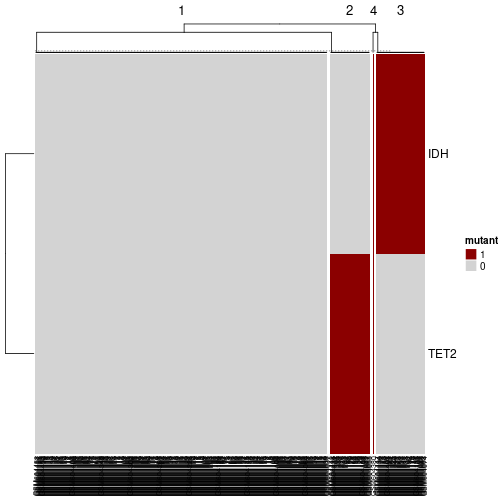
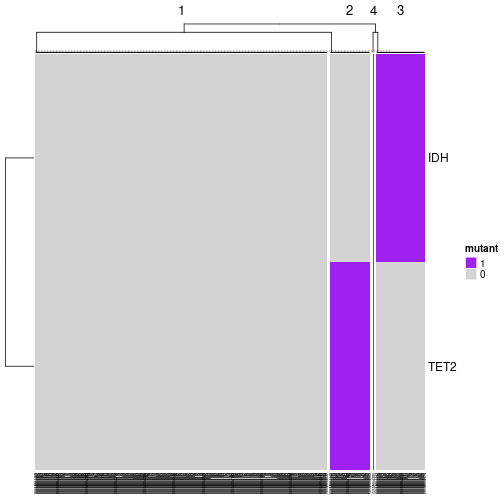
regenerate .md file

diff --git a/vignettes/TET2.md b/vignettes/TET2.md
@@ -1,6 +1,6 @@
 ---
 title: "Code review: TET2 and hypermethylation"
-author: "Tim Triche"
+author: "VAIGS Intro to Experimental Design, Class of 2026"
 date: "November 22nd, 2021"
 output: 
   html_document:
@@ -16,18 +16,17 @@ vignette: >
 # Installation
 
 Install the WorldsSimplestCodeReview package, if you haven't. 
+#This chunk was not necessary to run for me.-Riley
 
 
 ```r
 #install.packages("remotes")
 #install.packages("BiocManager")
 #BiocManager::install("VanAndelInstitute/WorldsSimplestCodeReview")
-library(knitr)
+library("WorldsSimplestCodeReview")
 ```
 
-To extract just the R code, you can use knitr::knit(input, tangle=TRUE):
-
-
+To extract just the R code, you can use `knitr::knit(input, tangle=TRUE)`.
 
 # Introduction
 
@@ -38,43 +37,80 @@ details can be found in [the paper](https://doi.org/10.1016/j.ccr.2010.11.015),
 which is indeed a landmark. Nevertheless, some fine details of the work seemed
 to disagree with the results of other cohorts when replication was attempted.
 
-![The money shot](figure/TET2.png)
+![The money shot](figure/TET2.png) 
+# This is Fig6 from the paper, suggesting TET2 mutant AML is associated with a hypermethylation p/type. Volcano plot (D) shows skew towards higher amount fo methylation in TET2 mutant compared to both TET2 and IDH WT. NB IDH and TET2 mutations mutually exclusive in AML.
 
 Some of you who have seen volcano plots before can guess where this is going.
 
 # The data
-
+Loading the data from the paper. This requred loading packages limma and GEOquery
 
 ```r
-
+#Load a package that can be used for Data analysis, linear models, and differential expression for microarray data. This is part of the BioConductor package.
 library(limma)
+#Load GEOquery package, that allows you to get data from the NCBI Gene Expression Omnibus
 library(GEOquery)
+#> Loading required package: Biobase
+#> Loading required package: BiocGenerics
+#> 
+#> Attaching package: 'BiocGenerics'
+#> The following object is masked from 'package:WorldsSimplestCodeReview':
+#> 
+#>     plotMA
+#> The following object is masked from 'package:limma':
+#> 
+#>     plotMA
+#> The following objects are masked from 'package:stats':
+#> 
+#>     IQR, mad, sd, var, xtabs
+#> The following objects are masked from 'package:dplyr':
+#> 
+#>     combine, intersect, setdiff, union
+#> The following objects are masked from 'package:base':
+#> 
+#>     Filter, Find, Map, Position, Reduce, anyDuplicated, append,
+#>     as.data.frame, basename, cbind, colnames, dirname, do.call,
+#>     duplicated, eval, evalq, get, grep, grepl, intersect, is.unsorted,
+#>     lapply, mapply, match, mget, order, paste, pmax, pmax.int, pmin,
+#>     pmin.int, rank, rbind, rownames, sapply, setdiff, sort, table,
+#>     tapply, union, unique, unsplit, which.max, which.min
+#> Welcome to Bioconductor
+#> 
+#>     Vignettes contain introductory material; view with
+#>     'browseVignettes()'. To cite Bioconductor, see
+#>     'citation("Biobase")', and for packages 'citation("pkgname")'.
+#> Setting options('download.file.method.GEOquery'='auto')
+#> Setting options('GEOquery.inmemory.gpl'=FALSE)
+#Load the paper's dataset specifically, if it isn't already; but just the parts you want
 if (!exists("DNAme")) data(DNAme)
 
 if (FALSE) { # this takes about 5 minutes:
-
+#This didn't actually take 5 minutes for me so I hope it hasn't missed anything! Updated none
   # needed to fetch data
   library(GEOquery) 
-  MSK_HOVON <- getGEO("GSE24505")
+  MSK_HOVON <- getGEO("GSE24505") #pulls GSE24505 dataset from GEOquery and labels it MSK_HOVON
 
   # skip the expression data:
-  platform <- sapply(MSK_HOVON, annotation)
-  methylation <- which(platform == "GPL6604")
-  DNAme <- MSK_HOVON[[methylation]] # GPL6604, HG17_HELP_PROMOTER 
-  DNAme$male <-ifelse(DNAme$characteristics_ch1=="sex (male.1_female.2): 1",1,0)
-  DNAme$TET2 <- ifelse(DNAme$characteristics_ch1.7 == "tet2: WT", 0, 1)
-  DNAme$IDH <- ifelse(DNAme$characteristics_ch1.8 == "idh1.idh2: WT", 0, 1)
-  DNAme$purity <- as.integer(DNAme$"bm_%blasts:ch1") / 100
-  save(DNAme, file="../data/DNAme.rda")
+  platform <- sapply(MSK_HOVON, annotation) #Using MSK_HOVON, pull datapoints with annotation into "platform"
+  methylation <- which(platform == "GPL6604") #Select those datapoints within "platform" for which values are "GPL6604"- methylation data
+  DNAme <- MSK_HOVON[[methylation]] # GPL6604, HG17_HELP_PROMOTER. Create new dataset "DNAme" with just methylation data
+  DNAme$male <-ifelse(DNAme$characteristics_ch1=="sex (male.1_female.2): 1",1,0) #Variable w/in DNAme for sex
+  DNAme$TET2 <- ifelse(DNAme$characteristics_ch1.7 == "tet2: WT", 0, 1) #Variable w/in DNAme for TET2 mutation/ WT
+  DNAme$IDH <- ifelse(DNAme$characteristics_ch1.8 == "idh1.idh2: WT", 0, 1) #Variable w/in DNAme for IDH mutation/WT
+  DNAme$purity <- as.integer(DNAme$"bm_%blasts:ch1") / 100 #Variable w/in DNAme for % purity 
+  save(DNAme, file="../data/DNAme.rda") #Save DNAme dataset in local files
 
 }
 
+
 # how many probes, how many patients?
-dim(DNAme)
+dim(DNAme) #dimensions of new DNAme dataset; features == probes, samples == patients
 #> Features  Samples 
 #>    25626      394
 # Features  Samples
 #    25626      394
+
+#SO, we have 25626 probes and 394 patients/samples
 ```
 
 ### Some contrasts
@@ -83,112 +119,117 @@ Is it the case that TET2, IDH1, and IDH2 mutations are exclusive?
 
 
 ```r
-
 # always plot your data
+
+#this is the type of plot we are using...
 library(ComplexHeatmap)
-#> Loading required package: grid
-#> ========================================
-#> ComplexHeatmap version 2.8.0
-#> Bioconductor page: http://bioconductor.org/packages/ComplexHeatmap/
-#> Github page: https://github.com/jokergoo/ComplexHeatmap
-#> Documentation: http://jokergoo.github.io/ComplexHeatmap-reference
-#> 
-#> If you use it in published research, please cite:
-#> Gu, Z. Complex heatmaps reveal patterns and correlations in multidimensional 
-#>   genomic data. Bioinformatics 2016.
-#> 
-#> The new InteractiveComplexHeatmap package can directly export static 
-#> complex heatmaps into an interactive Shiny app with zero effort. Have a try!
-#> 
-#> This message can be suppressed by:
-#>   suppressPackageStartupMessages(library(ComplexHeatmap))
-#> ========================================
-medata <- pData(DNAme)[, c("TET2", "IDH")]
-mutations <- t(as.matrix(medata))
-Heatmap(mutations,
-    col = c("lightgray", "darkred"), name = "mutant", column_km = 4,
-    column_names_gp = gpar(fontsize = 7)
-)
+
+#make a matrix of methylation data, coded as a binary
+mutations <- t(as.matrix(pData(DNAme)[, c("TET2", "IDH")]))
+#plot the heatmap, I decreased font size to 4 so that single double mutant name was visible
+  #I like the color purple better than red
+Heatmap(mutations, col=c("lightgray","purple"), name="mutant", column_km=4,row_km = 1,
+        column_names_gp = gpar(fontsize = 4))
 ```
 
-![](TET2_files/figure-html/heatmap-1.png)<!-- -->
+![plot of chunk heatmap](figure/heatmap-1.png)
 
 ```r
 
-# get any samples that have both genes mutated
-(non_exclusive  <- medata %>% dplyr::filter(TET2 == 1 & IDH == 1))
-#>           TET2 IDH
-#> GSM604380    1   1
-medata %>% table()
-#>     IDH
-#> TET2   0   1
-#>    0 302  50
-#>    1  41   1
+#Group 1 has no mutations, 2 has only IDH muations, 3 has only TET2 mutations, 4 has both TET2 and IDH mutations
 ```
-❗ _GSM604380 is not exclusive for the mutation._ One of the results from the
-paper is that the mutations are mutually exclusive. The data from this code
-does not match what is found in their results.
+Group 4 could have been easily missed if the data was not plotted!
+GSM604380 has both IDH and TET2 mutations.
 
 Do we see genome-wide hypermethylation from TET2 mutations? 
+  # No?!
 
 
 ```r
+#This code is looking at methylation probes based on three different designs
+  #Design 1 controls for no extra variables
+  #Design 2 controls for sex
+  #Design 3 controls for purity
 
 # model TET2 and IDH1/2 mutant related hypermethylation
 # note: there are plenty of confounders (pb%, bm%, wbc) that could be included
 library(limma) 
 
+
+
 # simplest design: model gene expression with IDH and TET2 mutation status and 
 # pull top ranked significant genes from liner model fit, get probes for each
 # gene
+
 design1 <- with(pData(DNAme), model.matrix( ~ IDH + TET2 ))
+  #then use this matrix to run bayesian analysis
 fit1 <- eBayes(lmFit(exprs(DNAme), design1))
+  # & now get number of sig (p<0.05) probes, split by IDH vs TET2
+
 (IDH_diffmeth_probes_fit1 <- nrow(topTable(fit1, 
                                            coef=grep("IDH", colnames(design1)), 
-                                           p.value=0.05, # change if you like 
+                                           p.value=0.05, 
                                            number=Inf)))
 #> [1] 6513
-# 6513 probes for IDH
+# 6513 probes methylated at a significance value of 0.05 for IDH
 
 (TET_diffmeth_probes_fit1 <- nrow(topTable(fit1, 
                                            coef=grep("TET2", colnames(design1)),
-                                           p.value=0.05, # change if you like 
+                                           p.value=0.05, 
                                            number=Inf)))
 #> [1] 6
-# 6 probes for TET2
+# 6 probes methylated at a significance value of 0.05 for TET2
 
 # control for sex
-design2 <- with(pData(DNAme), model.matrix( ~ IDH + TET2 + male ))
-fit2 <- eBayes(lmFit(exprs(DNAme), design2))
+design2 <- with(pData(DNAme), model.matrix( ~ IDH + TET2 + male )) #table with binary coding as design 1, but with addition of sex variable where 1==male, 0==female
+fit2 <- eBayes(lmFit(exprs(DNAme), design2)) #second Bayesian model with design 2 ie including sex confounder
+
 (IDH_diffmeth_probes_fit2 <- nrow(topTable(fit2, 
                                            coef=grep("IDH", colnames(design2)), 
-                                           p.value=0.05, # change if you like 
+                                           p.value=0.05, 
                                            number=Inf)))
 #> [1] 6651
-# 6651 probes for IDH 
+# 6651 probes methylated at a significance value of 0.05 for IDH 
+  # Higher number of significant probes for IDH when including sex variable
 
 (TET2_diffmeth_probes_fit2 <- nrow(topTable(fit2, 
                                             coef=grep("TET", colnames(design2)),
                                             p.value=0.05, # change if you like 
                                             number=Inf)))
 #> [1] 7
-# 7 probes for TET2
+# 7 probes methylated at a significance value of 0.05 for TET2
+  # Slightly higher (+1) significant number of probes for TET2 when including sex variable
 
 # control for blast count
-design3 <- with(pData(DNAme), model.matrix( ~ IDH:purity + TET2:purity))
-fit3 <- eBayes(lmFit(exprs(DNAme)[, as.integer(rownames(design3))], design3))
+design3 <- with(pData(DNAme), model.matrix( ~ IDH:purity + TET2:purity)) #Table looking at %purity of sample for both IDH and TET2 on continuous scale from 0-1
+fit3 <- eBayes(lmFit(exprs(DNAme)[, as.integer(rownames(design3))], design3)) # Bayesian analysis for purity 
+
 
 (IDH_diffmeth_probes_fit3 <- nrow(topTable(fit3, 
                                            coef=grep("IDH", colnames(design3)), 
-                                           p.value=0.05, # change if you like 
+                                           p.value=0.05, 
                                            number=Inf)))
 #> [1] 7450
-# 7450 probes for IDH:purity
-
+# 7450 probes methylated at a significance value of 0.05 for IDH:purity
+  # Higher number of significant probes when fitting for % DNA purity of sample for IDH
 (TET2_diffmeth_probes_fit3 <- nrow(topTable(fit3, 
                                             coef=grep("TET", colnames(design3)),
-                                            p.value=0.05, # change if you like 
+                                            p.value=0.05, 
                                             number=Inf)))
 #> [1] 10
-# 10 probes for TET2:purity
+# 10 probes methylated at a significance value of 0.05 for TET2:purity
+  #Higher number of significant probes when fitting for % DNA purity of sample for TET2
 ```
+# Conclusions and Critiques #
+I would guess from this analysis that the sex differences have an effect on the methylation status of IDH, and possibly also TET2, but as there are so few probes it is difficult to say this with any certainty for TET2. This low number also suggests to me that we do not see GW hypermethylation of TET2? 
+  It is also indicated that the %purity of obtained samples has a larger effect on methlyation status of both genes than either sex differences or mutation. Hence, it would be useful to do the mutational analysis with a threshold/ cut off for % purity of samples for both IDH and TET2 (looking at the design 3 table they don't always overlap very well). 
+
+
+This analysis also suggests that the authors assumption of mutual exclusivity between IDH and TET2 mutations is not seen in their sample so further investigation into this group (4 from heatmap), would be beneficial.
+  The authors are suggesting that LOF TET2 mutations are associated with the same epigenetic defects as IDH mutations, however using Bayesian analyses (fit 1) the mutant forms seemed to have wildly different methylation status (6513 for IDH and 6 for TET2), so I would like to look into this a bit further and see what they were getting at here! 
+
+
+In sum, there are more probes for IDH than TET2, on the order of 1000x more probes no matter which design (controlling for sex, purity, etc.)
+If this is the case, then the conclusions of this paper (that both mutations are associated with a hypermethylation pattern) should be called into question.
+Instead, it appears that the methylation patterns are different between TET2 vs IDH mutated tumors.
+
